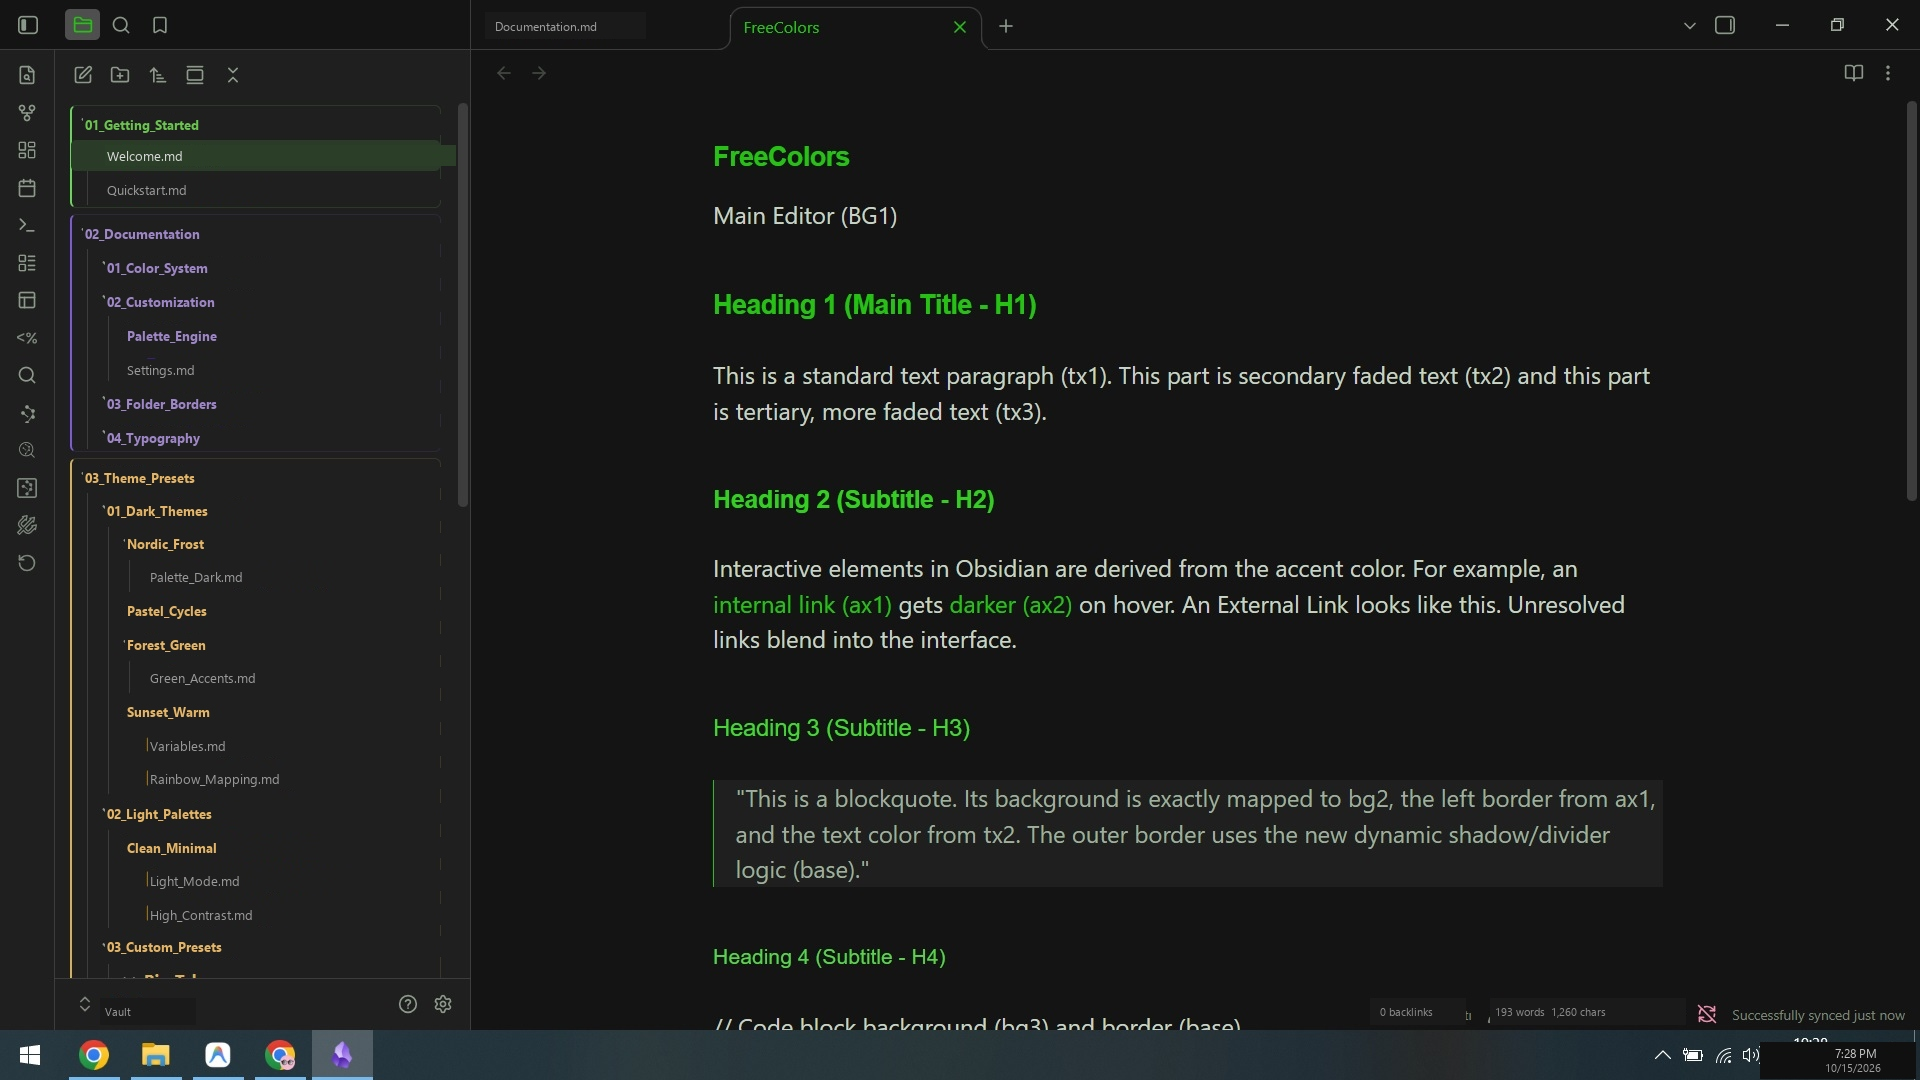
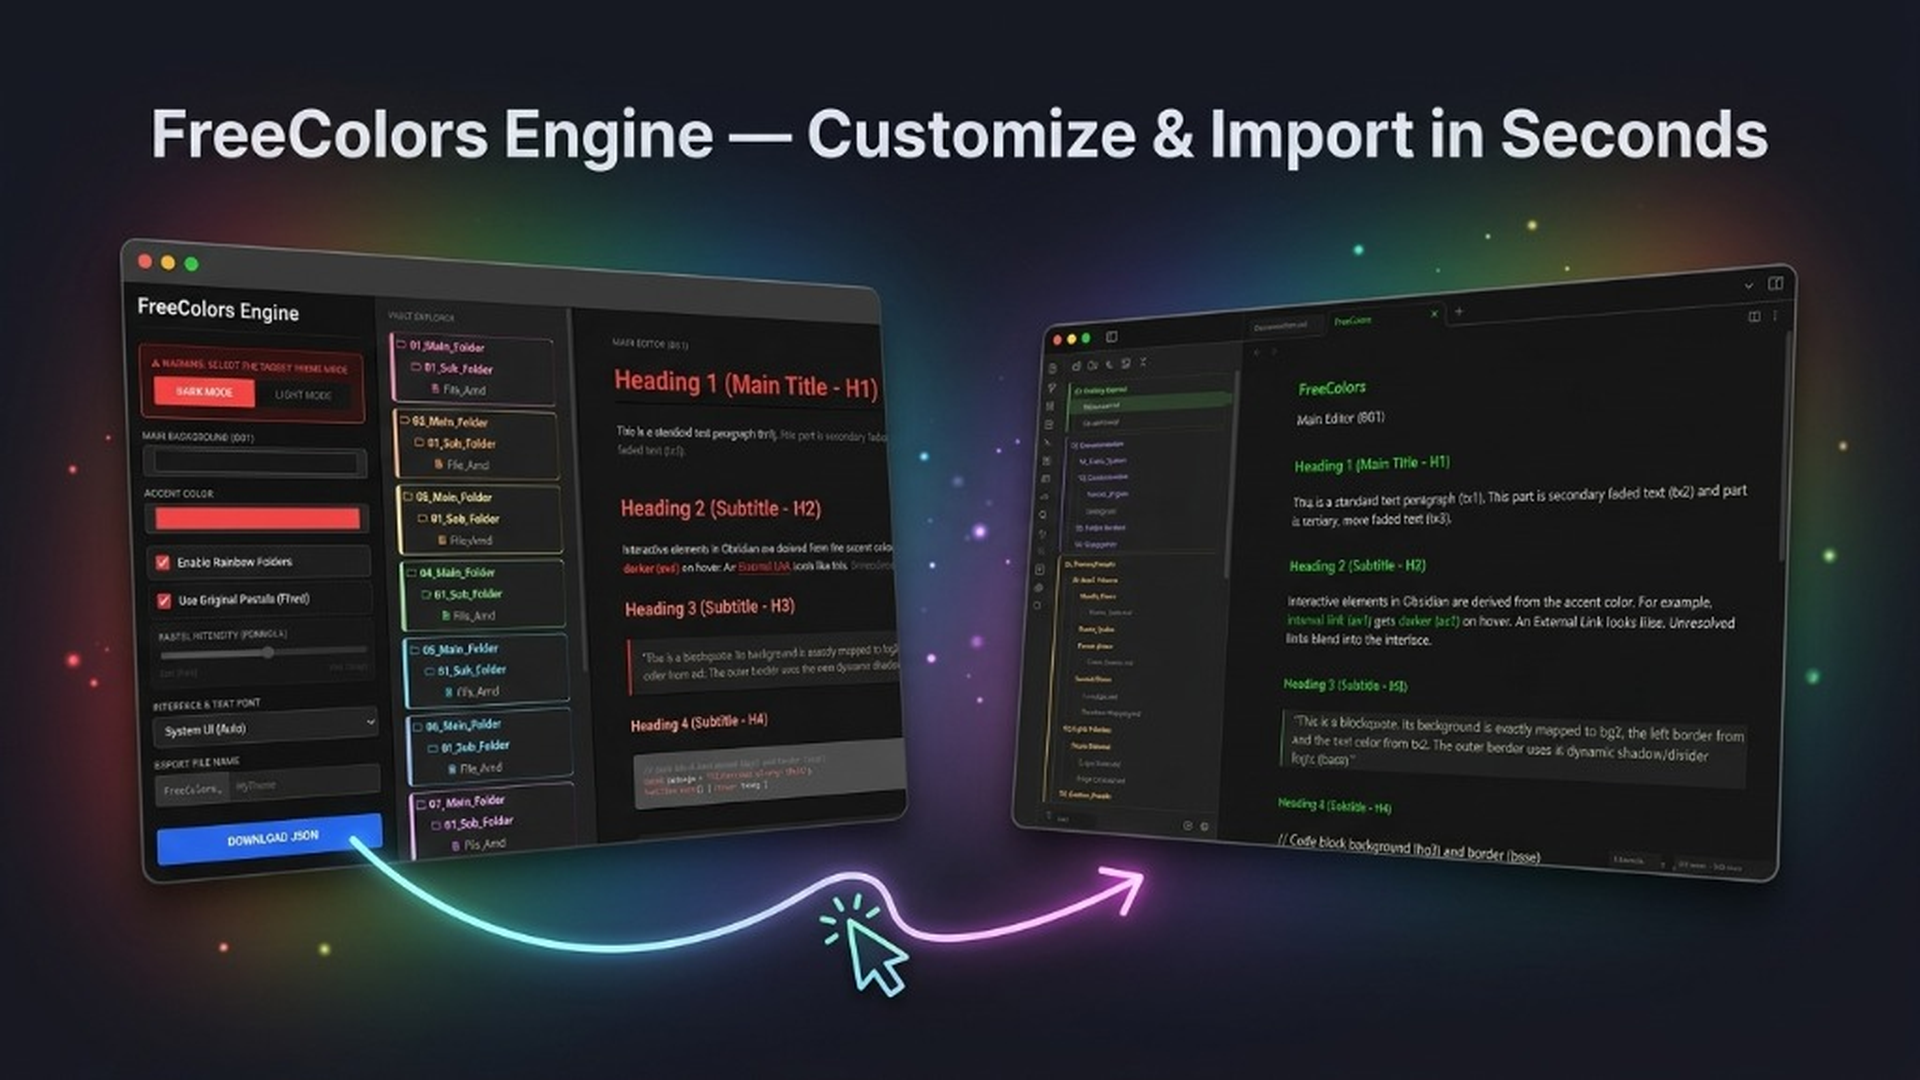
Update screenshot to 16:9, open simulator link in new tab, and remove helper plugin

diff --git a/README.md b/README.md
@@ -26,7 +26,7 @@ Unlike traditional Obsidian themes where you edit CSS files manually, FreeColors
 
 ### Step 2: Access the Simulator
 You can use the color engine via the web or locally:
-* **Method A (Web):** Open the [FreeColors Web Simulator](https://erulmu.github.io/freecolors/) directly in your browser.
+* **Method A (Web):** Open the <a href="https://erulmu.github.io/freecolors/" target="_blank" rel="noopener noreferrer">FreeColors Web Simulator</a> directly in your browser.
 * **Method B (Local):** Download the `index.html` file from this repository and open it in any modern web browser (no internet required).
 
 ### Step 3: Generate Your Custom Colors
@@ -46,9 +46,6 @@ The Rainbow Folders module is now built directly into the theme. To activate it:
 1. Go to **Settings > Style Settings** and find the FreeColors section.
 2. Toggle **"Enable Rainbow Folders"** to **ON**.
 3. The folder hierarchy will instantly use the custom rainbow colors defined in your JSON profile.
-
-> **💡 Sticky Rainbow Colors (Helper Snippet / Micro-Plugin):**
-> Obsidian's virtualized scrolling may recycle DOM elements on deep folder lists, which can cause CSS `:nth-child()` colors to shift as you scroll down. If you want every folder's rainbow color permanently fixed to its natural vault position regardless of scrolling, you can use the lightweight **FreeColors Rainbow Fixer** helper snippet/plugin included in this repository.
 
 ---
 
